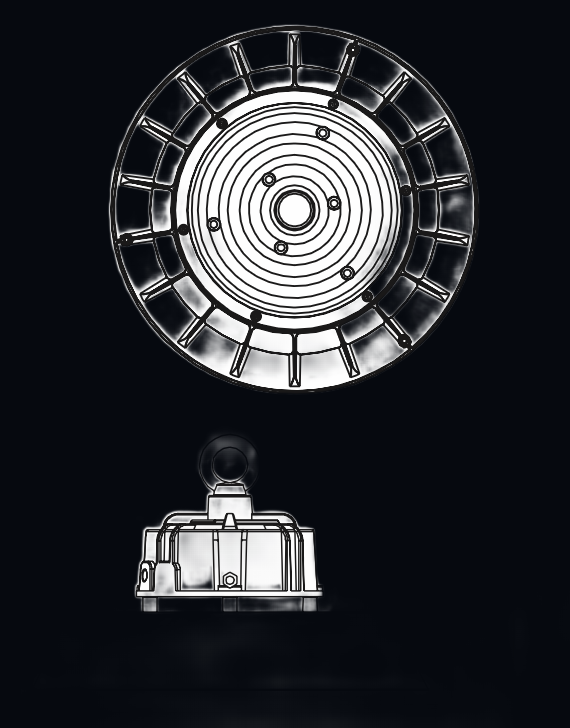
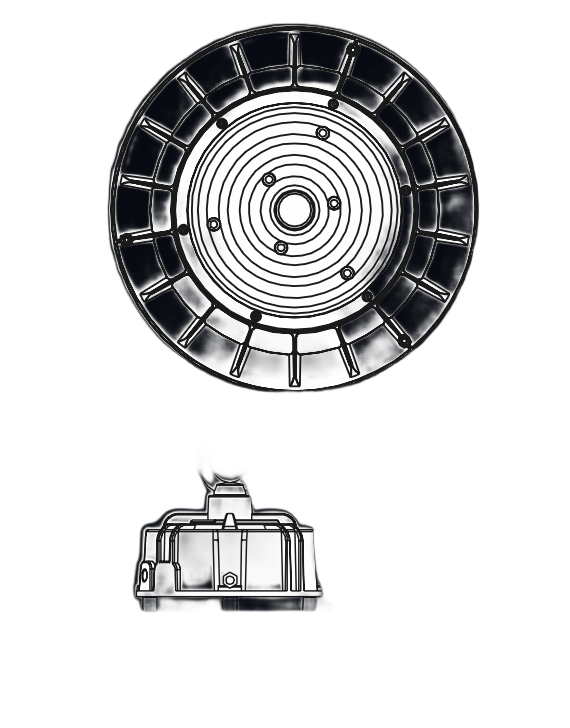
Make product images transparent; remove white product-card backgrounds
- Remove conditional white background from product image containers
  (ProductPage + ProductDetailPage) so cutouts sit on the dark card
- Re-process 27 supplier product photos to transparent PNGs (Higgsfield
  background remover, no color composite)

diff --git a/src/components/ProductPage.tsx b/src/components/ProductPage.tsx
@@ -122,7 +122,7 @@ export const ProductPage: React.FC<ProductPageProps> = ({ categoryId, slug }) =>
               initial={{ opacity: 0, scale: 0.97 }}
               animate={{ opacity: 1, scale: 1 }}
               transition={{ duration: 0.7 }}
-              className={`relative overflow-hidden rounded-2xl gradient-border-card card-lift ${isRender ? 'bg-white' : ''}`}
+              className="relative overflow-hidden rounded-2xl gradient-border-card card-lift"
             >
               <img
                 src={product.imageUrl}
@@ -133,13 +133,7 @@ export const ProductPage: React.FC<ProductPageProps> = ({ categoryId, slug }) =>
                 <div className="absolute inset-0 bg-gradient-to-t from-[#06090F]/70 via-transparent to-transparent pointer-events-none" />
               )}
               <div className="absolute bottom-4 left-4 right-4 flex items-center justify-between">
-                <span
-                  className={`px-3 py-1 text-[10px] font-mono tracking-wider uppercase rounded-full border backdrop-blur ${
-                    isRender
-                      ? 'bg-white/90 border-black/10 text-slate-700'
-                      : 'bg-[#06090F]/80 border-white/10 text-slate-300'
-                  }`}
-                >
+                <span className="px-3 py-1 text-[10px] font-mono tracking-wider uppercase rounded-full border backdrop-blur bg-[#06090F]/80 border-white/10 text-slate-300">
                   {product.supplier} · {category.title}
                 </span>
               </div>

diff --git a/src/components/ProductDetailPage.tsx b/src/components/ProductDetailPage.tsx
@@ -83,9 +83,7 @@ export const ProductDetailPage: React.FC<ProductDetailPageProps> = ({ categoryId
                   {/* Image */}
                   <Link
                     to={`/products/${category.id}/${product.slug}`}
-                    className={`relative h-56 overflow-hidden block ${
-                      product.imageUrl.startsWith('/product-images/') ? 'bg-white' : ''
-                    }`}
+                    className="relative h-56 overflow-hidden block"
                     aria-label={product.name}
                   >
                     <img
